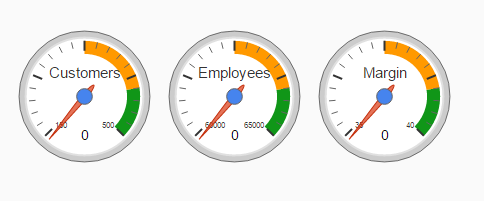
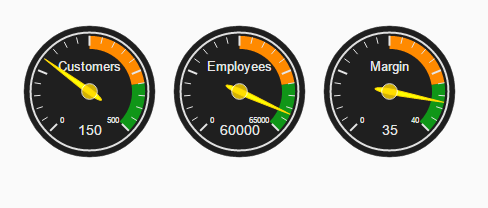
Updated to version 1.0.2

diff --git a/Gauges/src/bundles/ucs/viz/ext/gauge/ucs_viz_ext_gauge-src/js/render.js b/Gauges/src/bundles/ucs/viz/ext/gauge/ucs_viz_ext_gauge-src/js/render.js
@@ -67,7 +67,7 @@ define("ucs_viz_ext_gauge-src/js/render", [], function() {
 				this.config.minorTicks = configuration.minorTicks || 2;
 
 				this.config.greenColor = configuration.greenColor || "#109618";
-				this.config.yellowColor = configuration.yellowColor || "#FF9900";
+				this.config.yellowColor = configuration.yellowColor || "#FF8A00";
 				this.config.redColor = configuration.redColor || "#DC3912";
 
 				this.config.transitionDuration = configuration.transitionDuration || 500;
@@ -85,15 +85,15 @@ define("ucs_viz_ext_gauge-src/js/render", [], function() {
 					.attr("cx", this.config.cx)
 					.attr("cy", this.config.cy)
 					.attr("r", this.config.raduis)
-					.style("fill", "#ccc")
-					.style("stroke", "#000")
+					.style("fill", "#1f1f1f")
+					.style("stroke", "#353535")
 					.style("stroke-width", "0.5px");
 
 				this.body.append("svg:circle")
 					.attr("cx", this.config.cx)
 					.attr("cy", this.config.cy)
 					.attr("r", 0.9 * this.config.raduis)
-					.style("fill", "#fff")
+					.style("fill", "#1f1f1f")
 					.style("stroke", "#e0e0e0")
 					.style("stroke-width", "2px");
 
@@ -110,7 +110,7 @@ define("ucs_viz_ext_gauge-src/js/render", [], function() {
 				}
 
 				if (undefined !== this.config.label) {
-					var fontSize = Math.round(this.config.size / 9);
+					var fontSize = Math.round(this.config.size / 10.5);
 					this.body.append("svg:text")
 						.attr("x", this.config.cx)
 						.attr("y", this.config.cy / 2 + fontSize / 2)
@@ -118,8 +118,8 @@ define("ucs_viz_ext_gauge-src/js/render", [], function() {
 						.attr("text-anchor", "middle")
 						.text(this.config.label)
 						.style("font-size", fontSize + "px")
-						.style("fill", "#333")
-						.style("stroke-width", "0px");
+						.style("fill", "#e5e5e5")
+						.style("font-family", "Helvetica");
 				}
 
 				var fontSize = Math.round(this.config.size / 16);
@@ -135,7 +135,7 @@ define("ucs_viz_ext_gauge-src/js/render", [], function() {
 							.attr("y1", point1.y)
 							.attr("x2", point2.x)
 							.attr("y2", point2.y)
-							.style("stroke", "#666")
+							.style("stroke", "#e5e5e5")
 							.style("stroke-width", "1px");
 					}
 
@@ -147,7 +147,7 @@ define("ucs_viz_ext_gauge-src/js/render", [], function() {
 						.attr("y1", point1.y)
 						.attr("x2", point2.x)
 						.attr("y2", point2.y)
-						.style("stroke", "#333")
+						.style("stroke", "#e5e5e5")
 						.style("stroke-width", "2px");
 
 					if (major === this.config.min || major === this.config.max) {
@@ -160,7 +160,7 @@ define("ucs_viz_ext_gauge-src/js/render", [], function() {
 							.attr("text-anchor", major === this.config.min ? "start" : "end")
 							.text(major)
 							.style("font-size", fontSize + "px")
-							.style("fill", "#333")
+							.style("fill", "#e5e5e5")
 							.style("stroke-width", "0px");
 					}
 				}
@@ -185,17 +185,17 @@ define("ucs_viz_ext_gauge-src/js/render", [], function() {
 					.enter()
 					.append("svg:path")
 					.attr("d", pointerLine)
-					.style("fill", "#dc3912")
-					.style("stroke", "#c63310")
-					.style("fill-opacity", 0.7);
+					.style("fill", "#FFFF00")
+					.style("stroke", "#FFD700")
+					.style("fill-opacity", 1);
 
 				pointerContainer.append("svg:circle")
 					.attr("cx", this.config.cx)
 					.attr("cy", this.config.cy)
 					.attr("r", 0.12 * this.config.raduis)
-					.style("fill", "#4684EE")
-					.style("stroke", "#666")
-					.style("opacity", 1);
+					.style("fill", "#FFD700")
+					.style("stroke", "#fff")
+					.style("opacity", 0.8);
 
 				var fontSize = Math.round(this.config.size / 10);
 				pointerContainer.selectAll("text")
@@ -207,7 +207,7 @@ define("ucs_viz_ext_gauge-src/js/render", [], function() {
 					.attr("dy", fontSize / 2)
 					.attr("text-anchor", "middle")
 					.style("font-size", fontSize + "px")
-					.style("fill", "#000")
+					.style("fill", "#e5e5e5")
 					.style("stroke-width", "0px");
 
 				this.redraw(this.config.min, 0);

diff --git a/Gauges/src/bundles/ucs/viz/ext/gauge/gauge-bundle.js b/Gauges/src/bundles/ucs/viz/ext/gauge/gauge-bundle.js
@@ -16,7 +16,7 @@ define("gauge-bundle", ["ucs_viz_ext_gauge-src/js/flow", "css!ucs_viz_ext_gauge-
 	};
 	var vizExtBundle = sap.bi.framework.declareBundle({
 		"id": "ucs.viz.ext.gauge",
-		"version": "1.0.1",
+		"version": "1.0.2",
 		"components": [{
 			"id": "ucs.viz.ext.gauge",
 			"provide": "sap.viz.impls",
